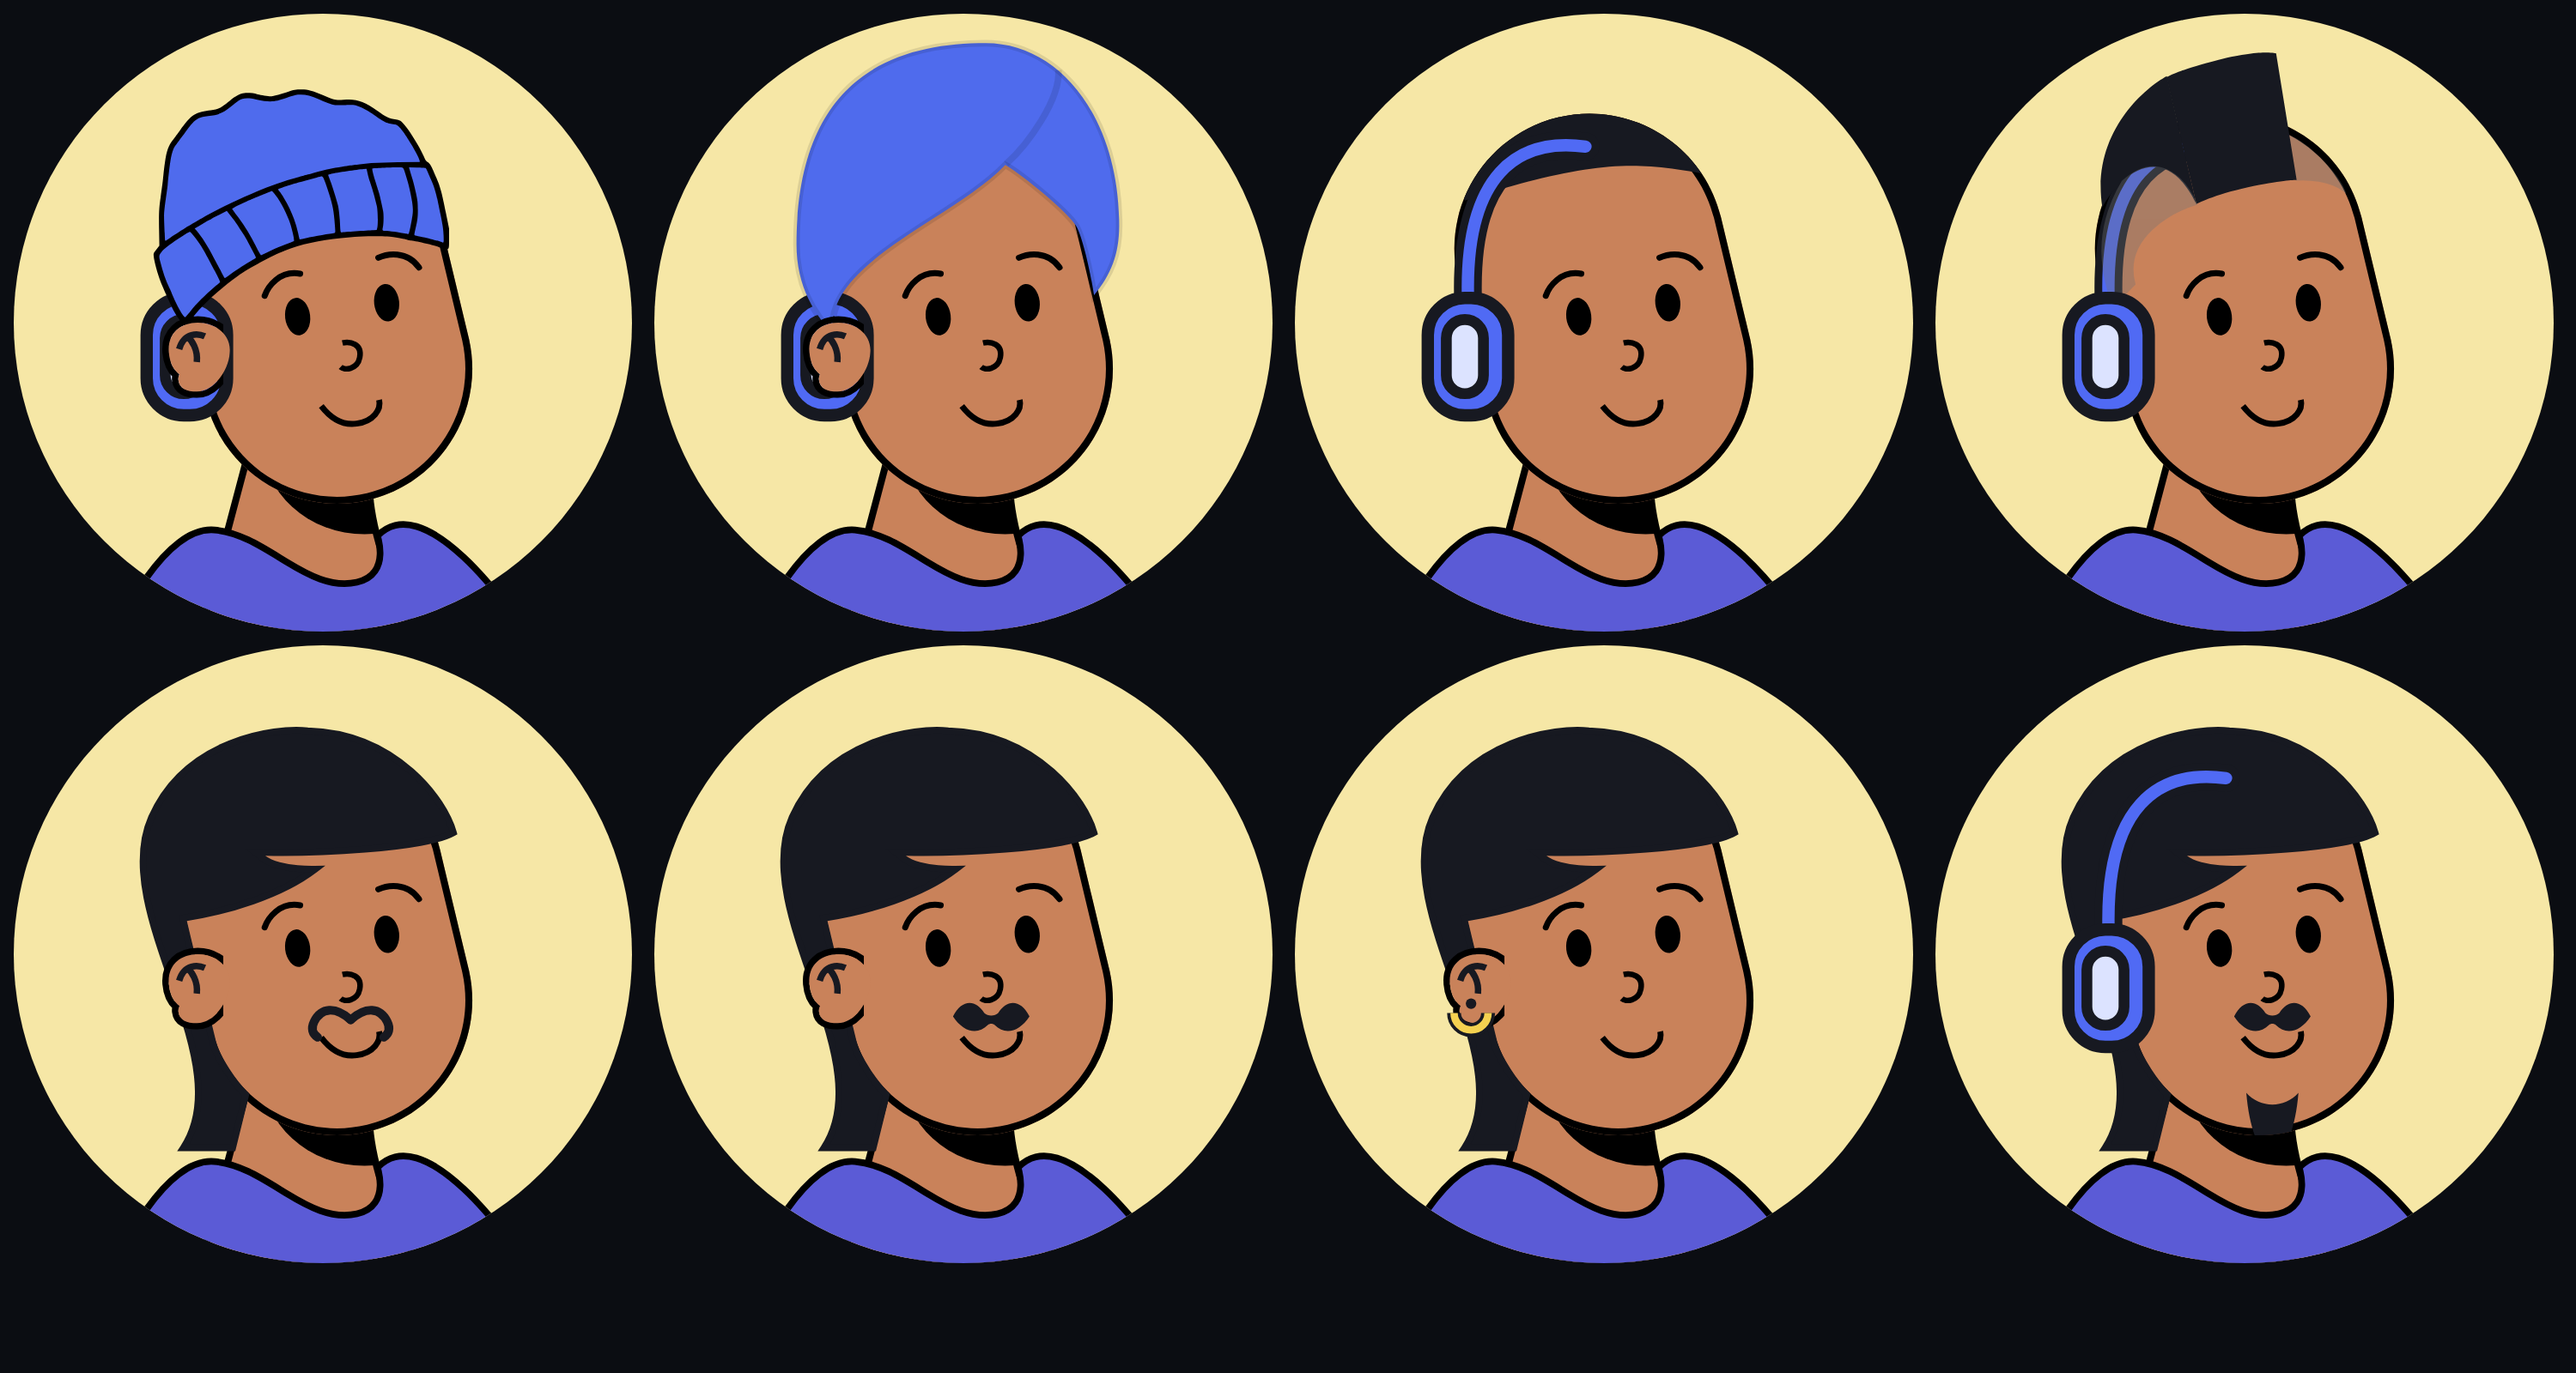
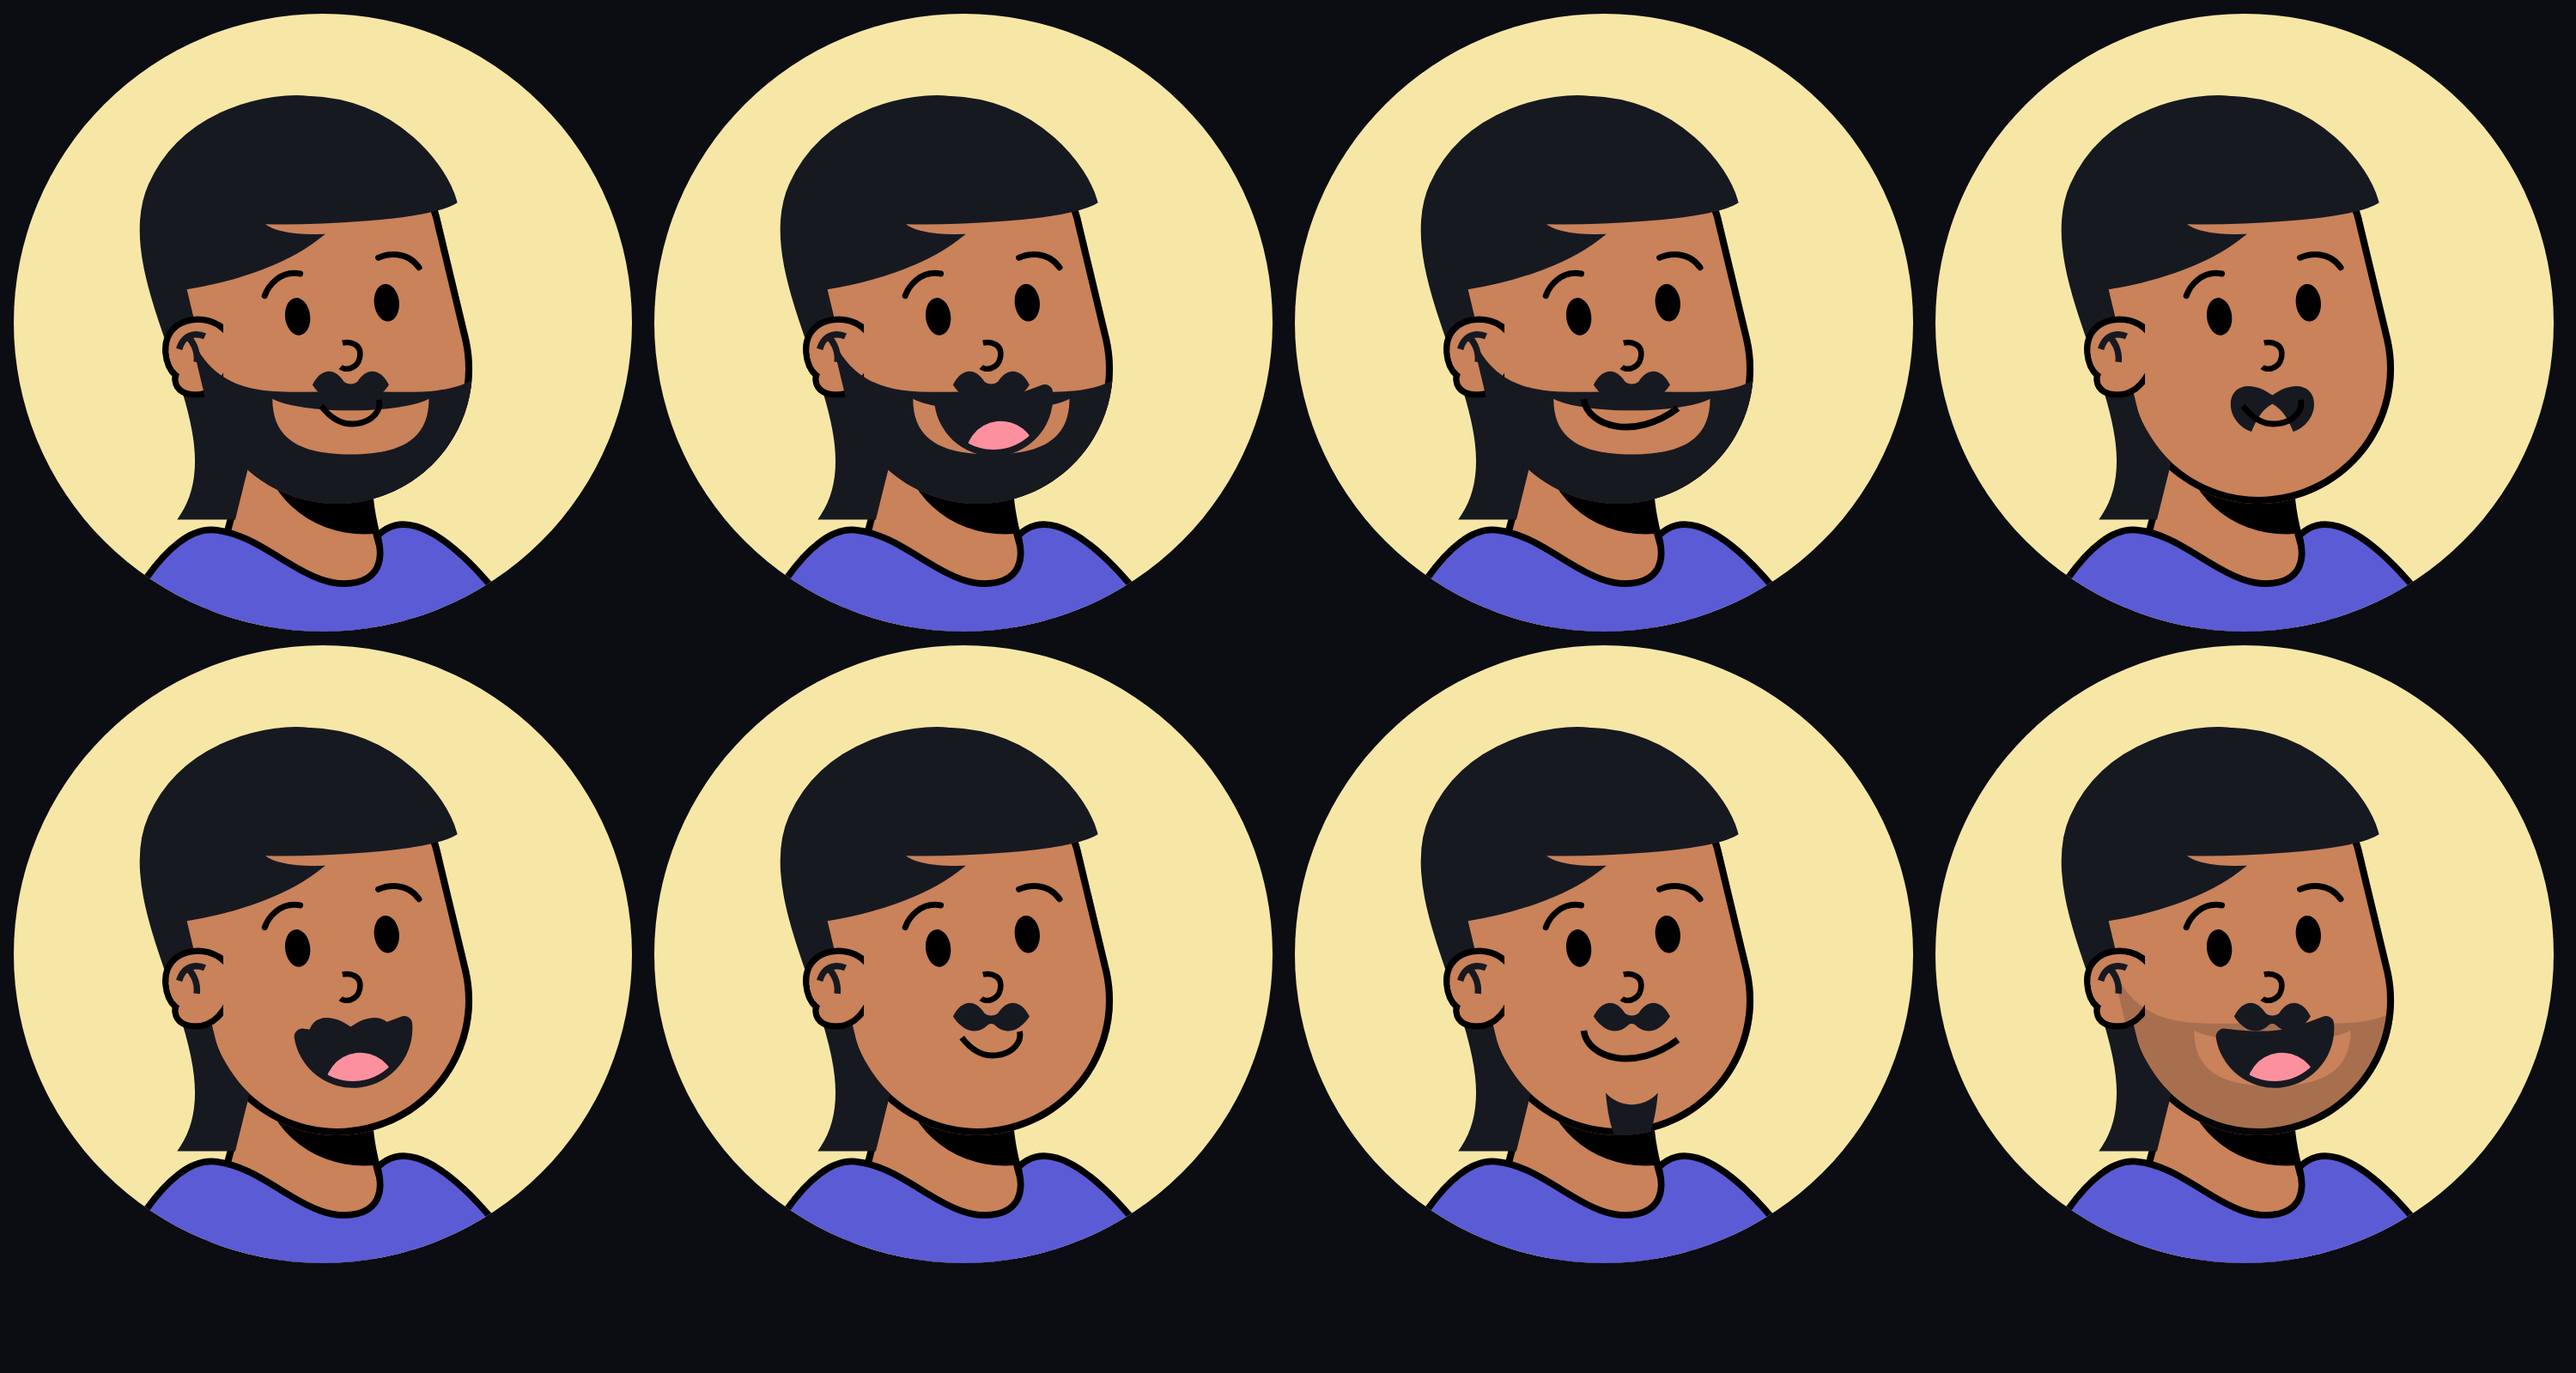
fix: mouth above facial hair, wider beard opening, walrus handlebar

diff --git a/src/react/art/facial-hair/stubble.tsx b/src/react/art/facial-hair/stubble.tsx
@@ -15,9 +15,13 @@ export function Stubble({ color = '#171921', uid }: ArtProps): ReactElement {
       <g clipPath={`url(#${clipId})`}>
         <path
           fill={color}
+          d="M94 178c5-10 13-10 18-2 2 2 6 2 8 0 5-8 13-8 18 2-6 9-14 11-20 5-1-1-3-1-4 0-6 6-14 4-20-5Z"
+        />
+        <path
+          fill={color}
           opacity="0.18"
           fillRule="evenodd"
-          d="M24 150C40 186 70 182 100 182L132 182C162 182 192 186 208 150L208 340L24 340Z M99 186C99 200 107 206 116 206C125 206 133 200 133 186C127 193 105 193 99 186Z"
+          d="M24 150C40 186 70 182 100 182L132 182C162 182 192 186 208 150L208 340L24 340Z M71 186C71 210 88 218 116 218C144 218 161 210 161 186C144 195 88 195 71 186Z"
         />
       </g>
     </FaceLayer>

diff --git a/src/react/art/facial-hair/beard.tsx b/src/react/art/facial-hair/beard.tsx
@@ -15,8 +15,12 @@ export function Beard({ color = '#171921', uid }: ArtProps): ReactElement {
       <g clipPath={`url(#${clipId})`}>
         <path
           fill={color}
+          d="M94 178c5-10 13-10 18-2 2 2 6 2 8 0 5-8 13-8 18 2-6 9-14 11-20 5-1-1-3-1-4 0-6 6-14 4-20-5Z"
+        />
+        <path
+          fill={color}
           fillRule="evenodd"
-          d="M24 150C40 186 70 182 100 182L132 182C162 182 192 186 208 150L208 340L24 340Z M99 186C99 200 107 206 116 206C125 206 133 200 133 186C127 193 105 193 99 186Z"
+          d="M24 150C40 186 70 182 100 182L132 182C162 182 192 186 208 150L208 340L24 340Z M71 186C71 210 88 218 116 218C144 218 161 210 161 186C144 195 88 195 71 186Z"
         />
       </g>
     </FaceLayer>

diff --git a/src/react/art/facial-hair/handlebar.tsx b/src/react/art/facial-hair/handlebar.tsx
@@ -5,10 +5,10 @@ import { FaceLayer } from './face-layer'
 export function Handlebar({ color = '#171921' }: ArtProps): ReactElement {
   return (
     <FaceLayer>
-      <g fill="none" stroke={color} strokeWidth="5" strokeLinecap="round">
-        <path d="M116 180c-9-8-17-7-21 1-2 4-1 7 2 9" />
-        <path d="M116 180c9-8 17-7 21 1 2 4 1 7-2 9" />
-      </g>
+      <path
+        fill={color}
+        d="M116 184C104 175 92 178 92 189c0 8 6 14 12 16 4-10 8-14 12-16 4 2 8 6 12 16 6-2 12-8 12-16 0-11-12-14-24-5Z"
+      />
     </FaceLayer>
   )
 }

diff --git a/src/react/parts.tsx b/src/react/parts.tsx
@@ -337,8 +337,8 @@ export function AvatarArt({ config, uid }: { config: AvatarConfig; uid: string }
       <GlassesArt config={config} uid={uid} />
       <EarArt config={config} uid={uid} />
       <NoseArt config={config} uid={uid} />
-      <MouthArt config={config} uid={uid} />
       <FacialHairArt config={config} uid={uid} />
+      <MouthArt config={config} uid={uid} />
       {hasHeadphones && !bandUnderHair && !headphonesUnderHat ? (
         <HeadphonesBand color={bandColor} uid={uid} />
       ) : null}

diff --git a/docs/api.md b/docs/api.md
@@ -128,7 +128,7 @@ interface AvatarOptions {
 | `shirt` | `"tee" \| "hoodie" \| "polo"` | generated | |
 | `shirtColor` | `string` | generated | Any CSS colour. |
 | `shape` | `"circle" \| "rounded" \| "square" \| "none"` | `"circle"` | Stored in the config so `<Avatar {...config} />` round-trips. |
-| `facialHair` | `"none" \| "moustache" \| "handlebar" \| "beard" \| "goatee" \| "stubble"` | `"none"` | Opt-in 1.1 part; not generated for new seeds so seeded output stays stable. |
+| `facialHair` | `"none" \| "moustache" \| "handlebar" \| "beard" \| "goatee" \| "stubble"` | `"none"` | Opt-in 1.1 part; `handlebar` draws a walrus silhouette. Not generated for new seeds so seeded output stays stable. |
 | `earring` | `"none" \| "stud" \| "hoop"` | `"none"` | Opt-in 1.1 accessory on the earlobe. |
 | `headphones` | `"none" \| "over-ear"` | `"none"` | Opt-in 1.1 accessory drawn above hair and hats. |
 | `headphoneColor` | `string` | `"#506AF4"` | Only used when `headphones` is set. |

diff --git a/CHANGELOG.md b/CHANGELOG.md
@@ -4,6 +4,16 @@ All notable changes to this project are documented here. The format follows
 [Keep a Changelog](https://keepachangelog.com/en/1.1.0/) and the project adheres to
 [Semantic Versioning](https://semver.org/spec/v2.0.0.html).
 
+## 1.1.4 — 2026-10-17
+
+### Fixed
+
+- The mouth now renders above facial hair, so smile, laugh and peace stay readable with a
+  beard; the beard opening is wide enough to leave a skin margin around the mouth.
+- The full beard and stubble include a moustache above the lip.
+- The `handlebar` style is redesigned as a walrus moustache: broad over the lip with ends
+  drooping past the mouth corners.
+
 ## 1.1.3 — 2026-10-17
 
 ### Fixed
